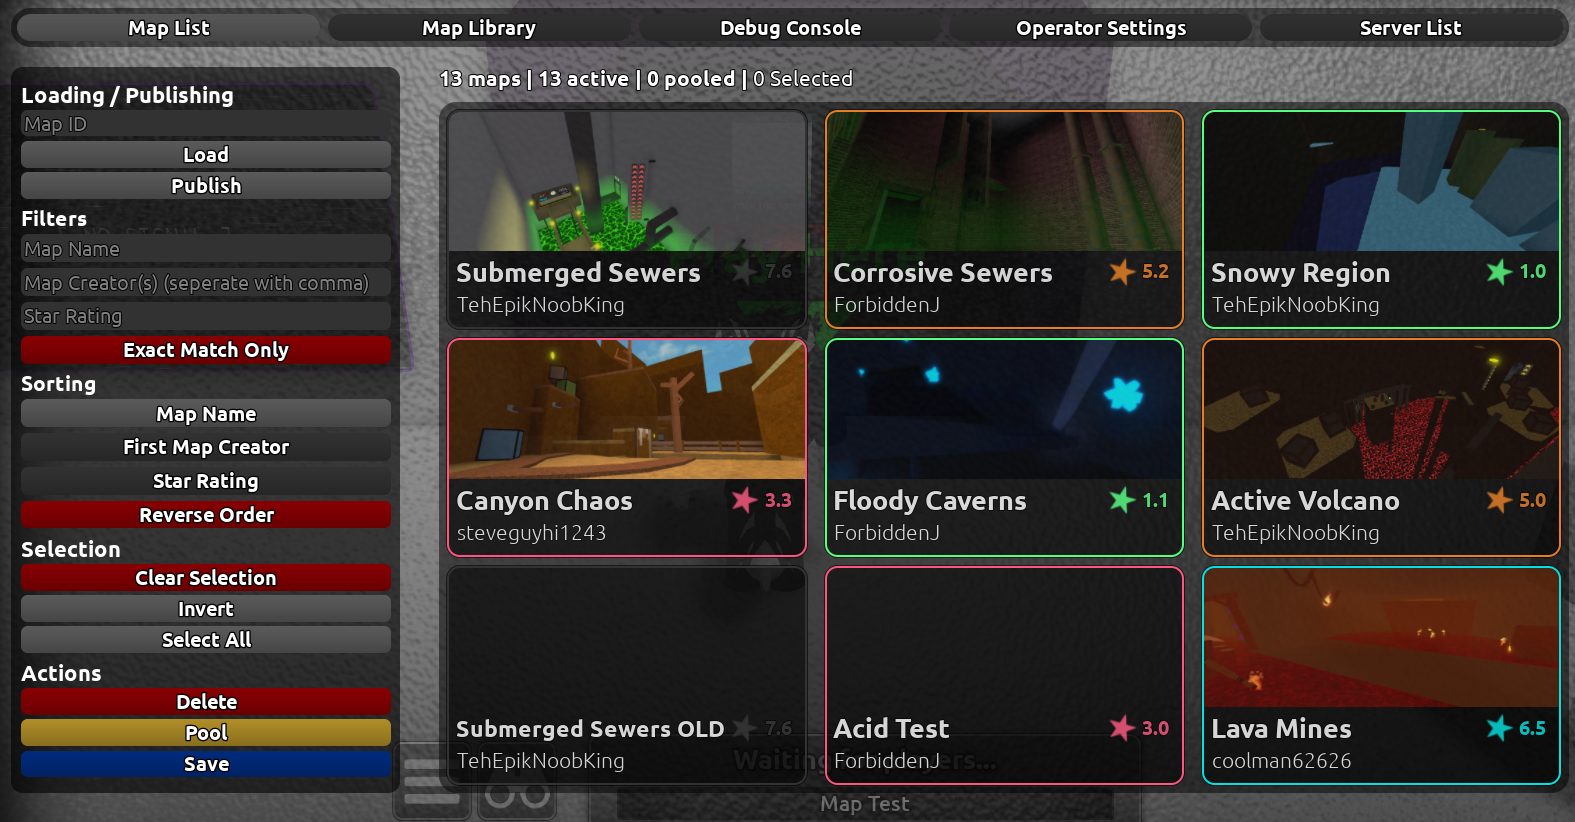
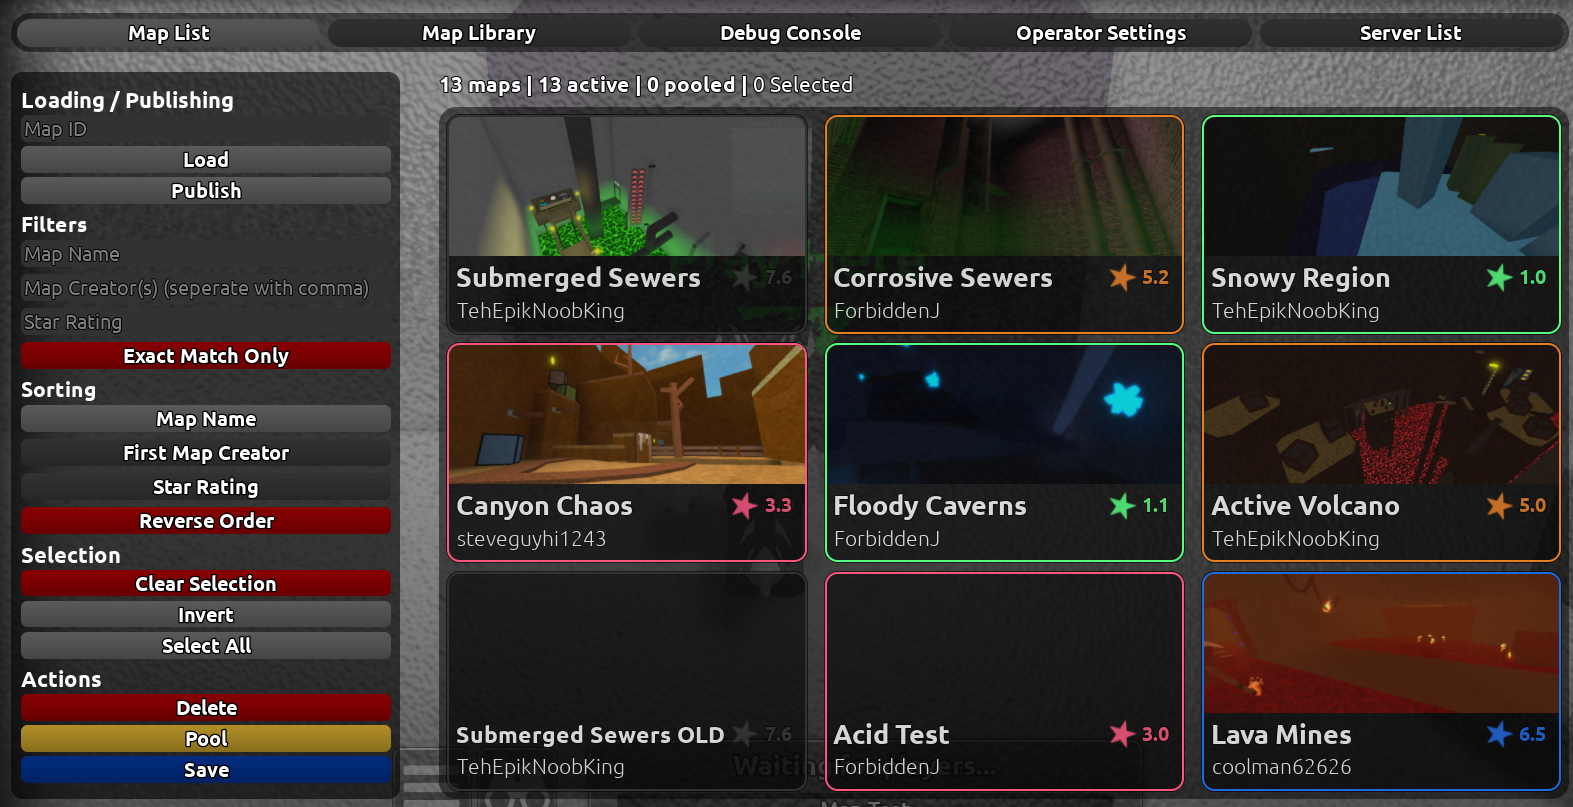
finished a page yayy

Changed region(s): [[0.0, 0.0, 1.0, 1.0]]

diff --git a/getting-started.html b/getting-started.html
@@ -19,11 +19,11 @@
 
         <main class="content">
             <h1>Getting Started</h1>
-            Welcome to Flood Insanity map making! This page will guide you through installation of the Map Development Kit, and the basic features that come included.
+            <p>Welcome to Flood Insanity map making! This page will guide you through installation of the Map Development Kit, and how to publish your map for others to discover it.</p>
 
             <section id="installation">
-                <h2>Installation</h2>
-                <p>Installation is very simple. Just follow the basic instructions, and hope nothing blows up along the way, yeah?</p>
+                <h2>Getting the Map Kit</h2>
+                <p>Getting the Map Kit is very simple. Just follow the basic instructions, and hope nothing blows up along the way, yeah?</p>
 
                 <h3>What you need:</h3>
                 <ul>
@@ -33,60 +33,82 @@
 
                 <h3>Instructions:</h3>
                 <ol>
-                    <li>Get the map development kit.</li>
+                    <li>Get the map development kit.
+                        <br><a href="https://www.roblox.com/home" class="play-button play-button-blue">
+                            <i class="fa-solid fa-wrench"></i> Get the Map Development Kit
+                        </a>
+                    </li>
                     <li>Open up the place on Vortex Studio.</li>
                     <img src="./assets/screenshots/new-game.png" style="width: 50%">
                     <li>That's it. Yay!</li>
                     <img src="./assets/screenshots/map-kit.png" style="width: 50%">
                 </ol>
-
-                <a href="https://www.roblox.com/home" class="play-button play-button-blue">
-                    <i class="fa-solid fa-wrench"></i> Get the Map Development Kit
-                </a>
             </section>
 
-            <section id="spawn">
-                <h2>
-                    _Spawn <span class="badge badge-red">Required</span>
-                </h2>
-                <p>_Spawn is where the players first load into the map. The _Spawn part is usually <b>12x1x12</b> studs large, however it can be any size. Their character and their camera both face the FRONT surface of the part, so making the faces different from each other can be a good idea, which is already done through the Map Kit.</p>
-                <img src="./assets/screenshots/spawn.png" style="width: 50%">
+            <section id="settings">
+                <h2>Settings</h2>
+                <h4>Main Page: <a href="./settings">Settings</a></h4>
+                <p>The settings folder includes all the information Flood Insanity needs about your map. The name, creators, music and lighting all apply into this folder. For more information, go to the main page linked above.</p>
+
+                <img src="./assets/screenshots/settings-attributes.png" style="width: 50%">
             </section>
 
-            <section id="exit">
-                <h2>
-                    _Exit <span class="badge badge-red">Required</span>
-                </h2>
-                <p>_Exit is where the part region where the players must reach to survive the map, and is only enabled when all the Buttons in the map have been pressed. _Exit can be resized to be any region where the players' goal is, but it must be CanCollide false.</p>
-                <img src="./assets/screenshots/exit.png" style="width: 50%">
+            <section id="pre-publishing">
+                <h2>Pre-Publishing</h2>
+                <p>Before publishing to the Map Test Place, you need to make sure you have _Spawn, _Exit and Settings in your map, or else the publish will fail. This is case-sensitive.</p>
+
+                <img src="./assets/screenshots/required-objects.png" style="width: 50%">
             </section>
 
-            <section id="exitblock">
-                <h2>
-                    _ExitBlock
-                </h2>
-                <p>_ExitBlock(s) are parts that block off the Exit. These should also be CanCollide false, since they only become solid when a player survives.</p>
-                <p>These part(s) are optional, and are not required for the map to function.</p>
-                <img src="./assets/screenshots/exit-block.png" style="width: 50%">
+            <section id="publishing">
+                <h2>Publishing Your Map</h2>
+                <p>To publish your map, you must have your model marked for sale on your account. This is so the auto-publisher can get the model and allow it to be loaded into the place.</p>
+                
+                <h3>Instructions:</h3>
+                <ol>
+                    <li>Open the Map Test Place</li>
+                    <a href="https://www.roblox.com/home" class="play-button play-button-grey">
+                        <i class="fa-solid fa-play"></i> Flood Insanity Map Test Place
+                    </a>
+                    <li>Once loaded in, make your way to the main menu.</li>
+                    <img src="./assets/screenshots/publish-guide-1.png" style="width: 50%">
+                    <li>Select the "Map Test" tab on the left bar. (The wrench icon)</li>
+                    <img src="./assets/screenshots/publish-guide-2.png" style="width: 50%">
+                    <li>You should now see the Map Test panel. The publishing section is on the top left.</li>
+                    <img src="./assets/screenshots/publish-guide-3.png" style="width: 50%">
+                    <li>Type in the Map's model ID where it says "Map ID", and click "Publish".</li>
+                    <img src="./assets/screenshots/publish-guide-4.png" style="width: 50%">
+                    <li>The publish button should now prompt for you to wait. The game automatically checks for errors within the map.</li>
+                    <ul>
+                        <li>"Error!" - Check the console for what went wrong. Look at the list of errors in the next section for more information.</li>
+                        <li>"Success!" - The map has been successfully published. The text box should now be replaced with your new map's ID, which you can now load and play!</li>
+                    </ul>
+                </ol>
             </section>
 
-            <section id="thumbnailcamera">
-                <h2>
-                    ThumbnailCamera
-                </h2>
-                <p>ThumbnailCamera is a part that the player's camera locks onto during the loading screen, having a small swaying animation. This part can be anywhere with any size, but the camera is pointed from the center of the part, facing forward towards the front surface. It's advised to set this part to be transparent and CanCollide false, so that players don't notice it during gameplay.</p>
-                <p>This part is also optional, and is not required for the map to function.</p>
-                <img src="./assets/screenshots/thumbnail-camera.png" style="width: 50%">
+            <section id="errors">
+                <h2>Errors</h2>
+
+                <ul>
+                    <li>"Publishing Error 1 - This map is not in the correct format. Are you sure you have _Spawn, _Exit, and Settings parented?"</li>
+                    <ul><li>Your map does not contain the _Spawn or _Exit parts, and/or the Settings folder.</li></ul>
+                    <li>"Publishing Error 2 - Read error. Are you sure this is a model?"</li>
+                    <ul><li>The submitted item is not a model.</li></ul>
+                    <li>"Publishing Error 3 - This map has already been published"</li>
+                    <ul><li>The submitted map has already been published to the game.</li></ul>
+                    <li>"Publishing Error 4 - Invalid ID. Did you make a typo?"</li>
+                    <ul><li>The submitted ID is not a valid ID. Either including letters or symbols. Or the item simply does not exist.</li></ul>
+                </ul>
             </section>
         </main>
 
         <aside class="page-contents">
             <h2>On this page</h2>
-            <a href="#installation">Installation</a>
-            <a href="#spawn">_Spawn</a>
-            <a href="#exit">_Exit</a>
-            <a href="#exitblock">_ExitBlock</a>
-            <a href="#thumbnailcamera">ThumbnailCamera</a>
+            <a href="#installation">Getting the Map Kit</a>
+            <a href="#settings">Settings</a>
+            <a href="#pre-publishing">Pre-Publishing</a>
+            <a href="#publishing">Publishing Your Map</a>
+            <a href="#errors">Errors</a>
         </aside>
     </div>
 

diff --git a/miscellaneous.html b/miscellaneous.html
@@ -1,0 +1,76 @@
+
+<!DOCTYPE html>
+
+<html lang="en">
+
+<head>
+    <meta charset="UTF-8">
+    <meta name="viewport" content="width=device-width, initial-scale=1.0">
+    <link rel="stylesheet" href="https://cdnjs.cloudflare.com/ajax/libs/font-awesome/6.7.2/css/all.min.css">
+    <link rel="stylesheet" href="./assets/style.css">
+    <title>Flood Insanity Docs</title>
+</head>
+
+<body>
+    <div id="header-placeholder"></div>
+
+    <div class="layout">
+        <div id="sidebar-placeholder"></div>
+        
+        <main class="content">
+            <h1>Miscellaneous Features</h1>
+            <p>These features are also included in the map kit, but do not have their own pages.</p>
+
+            <section id="spawn">
+                <h2>
+                    _Spawn <span class="badge badge-red">Required</span>
+                </h2>
+                <p>_Spawn is where the players first load into the map. The _Spawn part is usually <b>12x1x12</b> studs large, however it can be any size. Their character and their camera both face the FRONT surface of the part, so making the faces different from each other can be a good idea. This is already done through the Map Kit, as the front side is marked with an "F".</p>
+                <img src="./assets/screenshots/spawn.png" style="width: 50%">
+            </section>
+
+            <section id="exit">
+                <h2>
+                    _Exit <span class="badge badge-red">Required</span>
+                </h2>
+                <p>_Exit is where the part region where the players must reach to survive the map, and is only enabled when all the Buttons in the map have been pressed. _Exit can be resized to be any region where the players' goal is, but it must be CanCollide false. There can be more than 1 Exit region inside the map, allowing for alternate routes or endings.</p>
+                <img src="./assets/screenshots/exit.png" style="width: 50%">
+            </section>
+
+            <section id="exitblock">
+                <h2>
+                    _ExitBlock
+                </h2>
+                <p>_ExitBlock(s) are parts that block off the Exit. These should also be CanCollide false, since they only become solid when a player survives. Having these where the Exit can be exposed to out-of-bounds areas can be important to hide things from the player.</p>
+                <p>These part(s) are optional, and are not required for the map to function.</p>
+                <img src="./assets/screenshots/exit-block.png" style="width: 50%">
+            </section>
+
+            <section id="thumbnailcamera">
+                <h2>
+                    ThumbnailCamera
+                </h2>
+                <p>ThumbnailCamera is a part that the player's camera locks onto during the loading screen, having a small swaying animation. This part can be anywhere with any size, but the camera is pointed from the center of the part, facing forward towards the front surface. It's advised to set this part to be transparent and CanCollide false, so that players don't notice it during gameplay.</p>
+                <p>This part is also optional, and is not required for the map to function.</p>
+                <img src="./assets/screenshots/thumbnail-camera.png" style="width: 50%">
+            </section>
+        </main>
+
+        <aside class="page-contents">
+            <h2>On this page</h2>
+            <a href="#spawn">_Spawn</a>
+            <a href="#exit">_Exit</a>
+            <a href="#exitblock">_ExitBlock</a>
+            <a href="#thumbnailcamera">ThumbnailCamera</a>
+        </aside>
+    </div>
+
+    <div id="footer-placeholder"></div>
+
+    <script src="./assets/script.js"></script>
+
+</body>
+
+</html>
+
+

diff --git a/map-test.html b/map-test.html
@@ -18,8 +18,8 @@
         <div id="sidebar-placeholder"></div>
 
         <main class="content">
-            <h1>Publishing and FI-MTP</h1>
-            <p>This page will guide you on how to navigate the Map Test Place's UI, and how to publish your map in order to be playable.</p>
+            <h1>FI Map Test Place</h1>
+            <p>This page will guide you on how to navigate the Map Test Place's UI.</p>
             <a href="https://www.roblox.com/home" class="play-button play-button-grey">
                 <i class="fa-solid fa-play"></i> Flood Insanity Map Test Place
             </a>
@@ -42,6 +42,14 @@
                     Map Test Panel
                 </h2>
                 <p>The Panel is the main way of interacting with the place. It allows for loading, removing, publishing and searching of maps, as well as creation of multiplayer servers, debug and fun options, and more! It's the main hub of the game, intergrated in the main menu.</p>
+                <img src="./assets/screenshots/map-test-panel.png" style="width: 100%">
+            </section>
+
+            <section id="map-list">
+                <h2>
+                    Map List
+                </h2>
+                <p>The Map list is the place to find all of the maps that are currently loaded in the game, remove or save maps, or publish your own maps for people to play.</p>
                 <img src="./assets/screenshots/map-test-panel.png" style="width: 100%">
             </section>
         </main>

diff --git a/assets/include/sidebar.html b/assets/include/sidebar.html
@@ -4,17 +4,17 @@
         width: 100%;
         height: auto;
         padding-bottom: 4px;
-        margin: 12px 0 4px 0;
+        margin: 6px 0 6px 0;
     }
 </style>
 
 <aside class="sidebar" id="sidebar">
     <nav>
         <a href="./index.html">Home</a>
-        <div class="seperator">Tutorial</div>
+        <div class="seperator"></div>
+        <a href="./map-test.html">Map Test Place</a>
         <a href="./getting-started.html">Getting Started</a>
-        <a href="./publishing.html">Publishing & MTP</a>
-        <div class="seperator">Features</div>
+        <div class="seperator"></div>
         <a href="./liquids.html">Liquids</a>
         <a href="./buttons.html">Buttons</a>
         <a href="./mapscript.html">MapScript</a>
@@ -23,5 +23,6 @@
         <a href="./ziplines.html">Ziplines</a>
         <a href="./other-agility.html">Other Agility</a>
         <a href="./rescue-missions.html">Rescue Missions</a>
+        <a href="./miscellaneous.html">Misc. Features</a>
     </nav>
 </aside>

diff --git a/assets/style.css b/assets/style.css
@@ -208,7 +208,7 @@ a.play-button:active {
     width: var(--sidebar-width);
     height: calc(100vh - var(--header-height));
 
-    padding: 12px;
+    padding: 24px 12px 12px 12px;
     background: var(--header-bg);
     box-shadow: 7px 0 12px #000;
 
@@ -220,7 +220,7 @@ a.play-button:active {
 .sidebar nav {
     display: flex;
     flex-direction: column;
-    gap: 6px;
+    gap: 4px;
 }
 
 .sidebar nav a,
@@ -233,7 +233,7 @@ a.play-button:active {
 
 .sidebar nav a {
     display: block;
-    padding: 8px;
+    padding: 6px 6px 6px 8px;
     border-radius: 6px;
     color: white;
     text-decoration: none;
